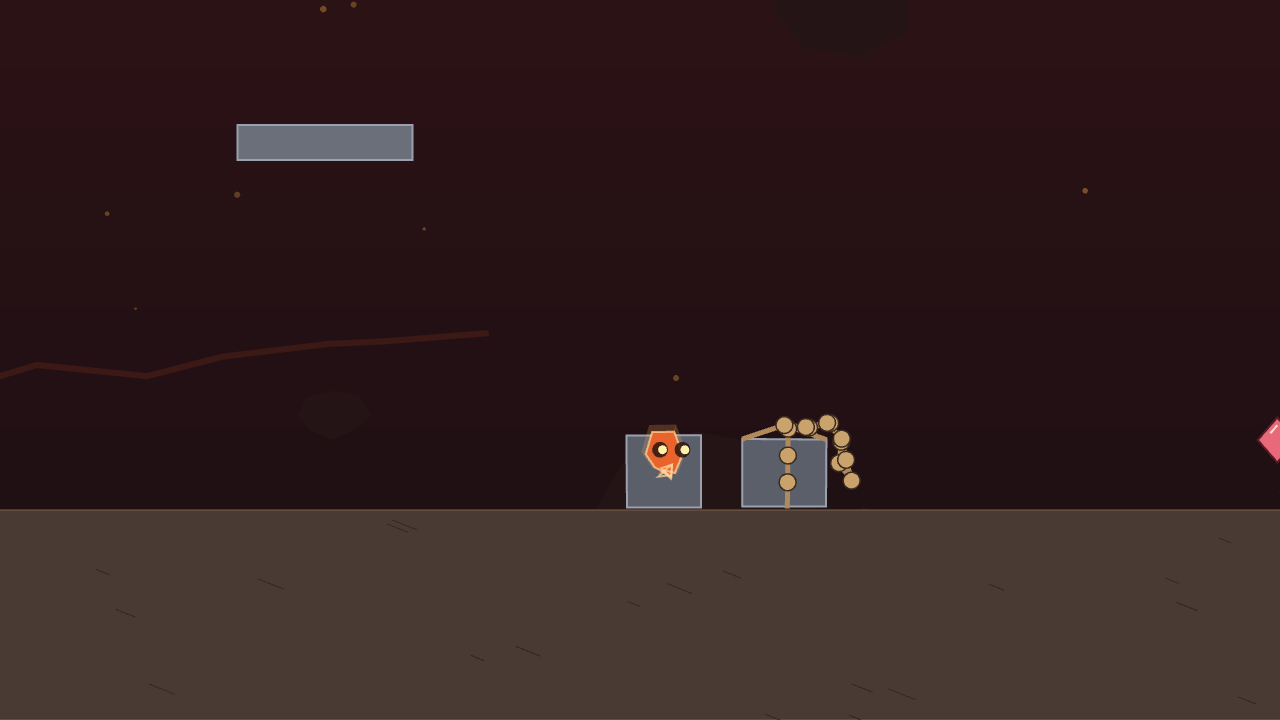
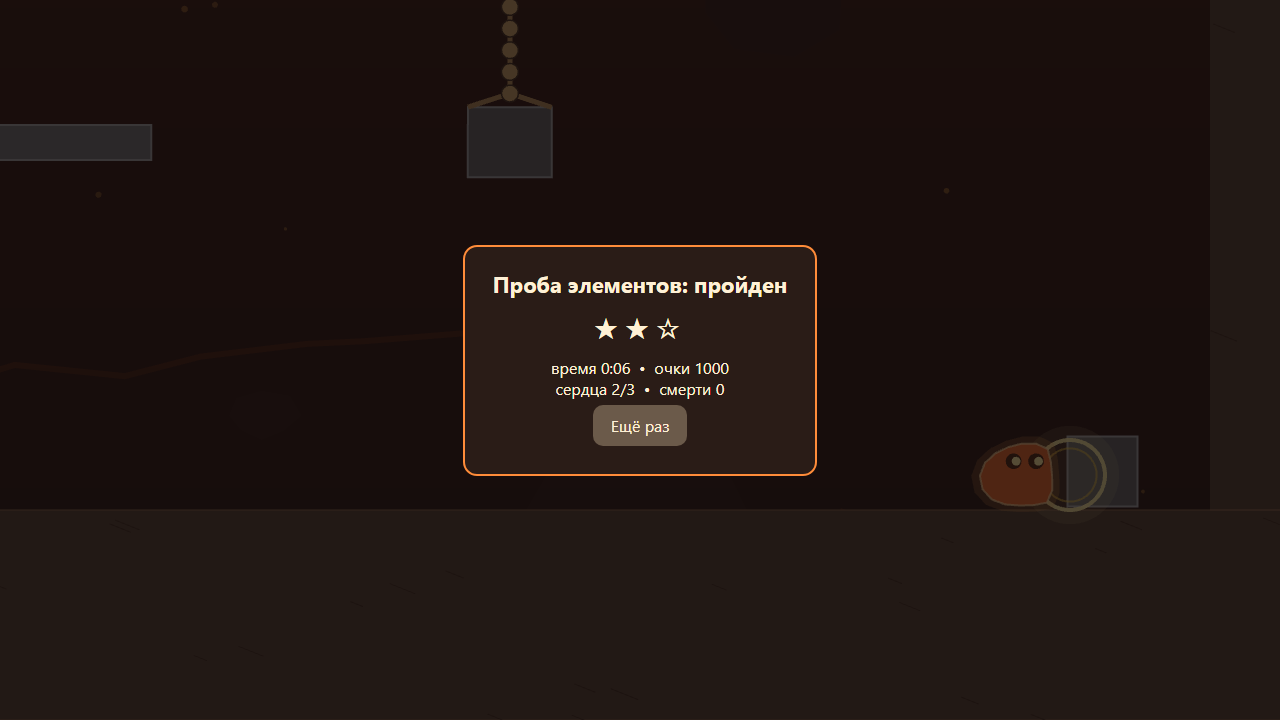
Физика: контакт тел наружу через пересечённое ребро, почти неупругий; якоря без накопления скорости; поршень пробы вровень с полом; тесты контейнеров

diff --git a/src/physics/mir.ts b/src/physics/mir.ts
@@ -11,6 +11,7 @@ export const SETKA = 2; // размер ячейки сетки отрезков
 export const MAX_YACHEEK = 65536;
 const ZAPAS = 0.6; // запас границ отрезка под глубину односторонней стороны
 const KASANIE = 0.003; // зазор, в пределах которого частица считается касающейся отрезка
+const NEUPRUGOST = 0.8; // доля разведения тел, которая не переходит в скорость
 const MAKS_RAZVEDENIE = 0.04; // предел разведения двух тел за подшаг
 const ZAPAS_TEL = 0.15; // запас вокруг прямоугольника контура при проверке близости тел
 const GLUBINA = 0.5; // глубина по умолчанию, с которой односторонний отрезок выталкивает сидящую внутри частицу
@@ -633,29 +634,54 @@ export class Mir {
             this.ottolknutOtRebra(p, otB, nB, x, y, r, b);
             continue;
           }
-          // внутри чужого контура: вытолкнуть через ближайшее ребро
+          // внутри чужого контура: вытолкнуть через ребро, которое частица пересекла за такт
+          // (по прошлой позиции), иначе через ближайшее. Ближайшее ребро у дна контейнера
+          // это его дно: частица героя вдавливалась в пол и тело складывалось (грабли, BRIEF)
           let luchshe = -1,
             dmin = Infinity;
-          for (let j = 0; j < nB; j++) {
-            const q1 = otB + j,
-              q2 = otB + ((j + 1) % nB);
-            const d = rasstoyanieDoOtrezka(
-              x,
-              y,
-              this.x[q1] as number,
-              this.y[q1] as number,
-              this.x[q2] as number,
-              this.y[q2] as number,
-            );
-            if (d < dmin) {
-              dmin = d;
-              luchshe = j;
+          const pxp = this.px[p] as number,
+            pyp = this.py[p] as number;
+          if (!this.vnutriKontura(otB, nB, pxp, pyp)) {
+            for (let j = 0; j < nB; j++) {
+              const q1 = otB + j,
+                q2 = otB + ((j + 1) % nB);
+              const ax = this.x[q1] as number,
+                ay = this.y[q1] as number;
+              const bx = this.x[q2] as number,
+                by = this.y[q2] as number;
+              // пересечение отрезка (px,py)-(x,y) с ребром (a,b)
+              const d1 = (bx - ax) * (pyp - ay) - (by - ay) * (pxp - ax);
+              const d2 = (bx - ax) * (y - ay) - (by - ay) * (x - ax);
+              const d3 = (x - pxp) * (ay - pyp) - (y - pyp) * (ax - pxp);
+              const d4 = (x - pxp) * (by - pyp) - (y - pyp) * (bx - pxp);
+              if (d1 * d2 < 0 && d3 * d4 < 0) {
+                luchshe = j;
+                dmin = rasstoyanieDoOtrezka(x, y, ax, ay, bx, by);
+                break;
+              }
             }
           }
+          if (luchshe === -1)
+            for (let j = 0; j < nB; j++) {
+              const q1 = otB + j,
+                q2 = otB + ((j + 1) % nB);
+              const d = rasstoyanieDoOtrezka(
+                x,
+                y,
+                this.x[q1] as number,
+                this.y[q1] as number,
+                this.x[q2] as number,
+                this.y[q2] as number,
+              );
+              if (d < dmin) {
+                dmin = d;
+                luchshe = j;
+              }
+            }
           if (luchshe === -1) continue;
           const q1 = otB + luchshe,
             q2 = otB + ((luchshe + 1) % nB);
-          this.razvesti(p, q1, q2, x, y, dmin + r, b);
+          this.razvesti(p, q1, q2, x, y, dmin + r, b, true);
         }
       }
     }
@@ -793,6 +819,7 @@ export class Mir {
     y: number,
     pen: number,
     b: number,
+    vnutri = false, // частица внутри чужого контура (наружу через ребро) или снаружи у ребра (от ребра)
   ): void {
     const x1 = this.x[q1] as number,
       y1 = this.y[q1] as number;
@@ -804,13 +831,16 @@ export class Mir {
     else if (t > 1) t = 1;
     const cx = x1 + ex * t,
       cy = y1 + ey * t;
-    let nx = x - cx,
-      ny = y - cy;
+    // частица внутри чужого контура: наружу значит от частицы к ребру и дальше. Раньше нормаль
+    // шла от ребра к частице, то есть внутрь: тело засасывало в контейнер, врага в героя (грабли)
+    let nx = vnutri ? cx - x : x - cx,
+      ny = vnutri ? cy - y : y - cy;
     const d = Math.sqrt(nx * nx + ny * ny);
     if (d < 1e-9) {
+      // частица на самом ребре: наружная нормаль контура, обход против часовой, наружу справа
       const l = Math.sqrt(el) || 1;
-      nx = -ey / l;
-      ny = ex / l;
+      nx = ey / l;
+      ny = -ex / l;
     } else {
       nx /= d;
       ny /= d;
@@ -831,6 +861,15 @@ export class Mir {
     this.y[q1] = (this.y[q1] as number) - ny * dq * (1 - t);
     this.x[q2] = (this.x[q2] as number) - nx * dq * t;
     this.y[q2] = (this.y[q2] as number) - ny * dq * t;
+    // контакт почти неупругий: большая часть разведения не становится скоростью, иначе
+    // лёгкий контейнер выстреливает от касания вдвое быстрее героя (грабли, BRIEF)
+    const k = NEUPRUGOST;
+    this.px[p] = (this.px[p] as number) + nx * dp * k;
+    this.py[p] = (this.py[p] as number) + ny * dp * k;
+    this.px[q1] = (this.px[q1] as number) - nx * dq * (1 - t) * k;
+    this.py[q1] = (this.py[q1] as number) - ny * dq * (1 - t) * k;
+    this.px[q2] = (this.px[q2] as number) - nx * dq * t * k;
+    this.py[q2] = (this.py[q2] as number) - ny * dq * t * k;
     this.kontaktTel[p] = 1;
     this.kontaktTelKontur[p] = b;
     this.kontaktTelChastica[p] = q1;

diff --git a/tests/konteynery.test.ts b/tests/konteynery.test.ts
@@ -91,24 +91,30 @@ describe('контейнеры', () => {
 
   it('тело толкает контейнер вправо', () => {
     const u = komnata([{ tip: 'yashchik', id: 'ya', x: 3, y: 0.1, w: 1, h: 1 }], [1, 1.2]);
-    const { mir, ur, telo } = progon(u, [{ takty: 300, nam: { dx: 1 } }]);
+    const { mir, ur, telo } = progon(u, [{ takty: 150, nam: { dx: 1 } }]);
     const s = ur.sushchnosti.find((q) => q.tip === 'yashchik') as Sushchnost;
-    const [cx] = centr(mir, s);
+    const [cx, cy] = centr(mir, s);
     expect(cx, `тело x ${telo.cx.toFixed(2)}`).toBeGreaterThan(4.5);
-    // тело не прошло сквозь контейнер: оно не правее его
-    expect(telo.cx).toBeLessThan(cx + 0.6);
+    // контейнер остался на полу целым, тело не внутри него
+    expect(cy).toBeLessThan(1.2);
+    let vnutri = 0;
+    for (let i = telo.ot; i < telo.ot + telo.n; i++)
+      if (mir.vnutriKontura(s.chasticy[0] as number, 4, mir.x[i] as number, mir.y[i] as number))
+        vnutri++;
+    expect(vnutri).toBe(0);
   });
 
   it('Вязкость тянет контейнер за собой', () => {
-    const u = komnata([{ tip: 'yashchik', id: 'ya', x: 3, y: 0.1, w: 1, h: 1 }], [1, 1.2]);
+    // контейнер вплотную справа от героя: коснуться, прилипнуть, ползти влево
+    const u = komnata([{ tip: 'yashchik', id: 'ya', x: 1.8, y: 0.1, w: 1, h: 1 }], [1.2, 1.2]);
     const { mir, ur } = progon(u, [
-      { takty: 120, nam: { dx: 1 } }, // подъехать
-      { takty: 60, nam: { dx: 1, vyazkost: true } }, // прилипнуть
-      { takty: 240, nam: { dx: -1, vyazkost: true } }, // тянуть влево
+      { takty: 40, nam: { dx: 1 } },
+      { takty: 30, nam: { vyazkost: true } },
+      { takty: 240, nam: { dx: -1, vyazkost: true } },
     ]);
     const s = ur.sushchnosti.find((q) => q.tip === 'yashchik') as Sushchnost;
     const [cx] = centr(mir, s);
-    expect(cx).toBeLessThan(3.3);
+    expect(cx).toBeLessThan(2.0);
   });
 
   it('маятник висит под якорем и качается после толчка', () => {

diff --git a/src/level/zagruzka.ts b/src/level/zagruzka.ts
@@ -229,7 +229,7 @@ export function zagruzitUroven(mir: Mir, u: Uroven): ZagruzhennyyUroven {
       s.kontur = mir.dobavitKontur(s.chasticy[0] as number, 4, KONTEYNER.obyom, 1);
       if (o.tip === 'mayatnik') {
         // якорь и цепь вниз, последнее звено держит оба верхних угла
-        const a = mir.dobavitTochku(o.x, o.y, CEP.massaYakorya, 0.02, 1, 1);
+        const a = mir.dobavitTochku(o.x, o.y, CEP.massaYakorya, 0.02, 1, 0);
         mir.gravMul[a] = 0;
         const raz = o.razryv ?? CEP.razryv[o.prochnost ?? 'prochnaya'];
         let prev = a;
@@ -256,7 +256,7 @@ export function zagruzitUroven(mir: Mir, u: Uroven): ZagruzhennyyUroven {
       const raz = o.razryv ?? CEP.razryv[o.prochnost ?? 'prochnaya'];
       const dvaYakorya = o.x2 !== undefined;
       // якорь A: неподвижная частица огромной массы
-      const a = mir.dobavitTochku(o.x, o.y, CEP.massaYakorya, 0.02, 1, 1);
+      const a = mir.dobavitTochku(o.x, o.y, CEP.massaYakorya, 0.02, 1, 0);
       mir.gravMul[a] = 0;
       let prev = a;
       // мост провисает по параболе: дуга длиннее прямой в zapas раз, звенья не сжаты и не растянуты
@@ -284,7 +284,7 @@ export function zagruzitUroven(mir: Mir, u: Uroven): ZagruzhennyyUroven {
         prev = q;
       }
       if (dvaYakorya) {
-        const b = mir.dobavitTochku(x2, y2, CEP.massaYakorya, 0.02, 1, 1);
+        const b = mir.dobavitTochku(x2, y2, CEP.massaYakorya, 0.02, 1, 0);
         mir.gravMul[b] = 0;
         const sv = mir.dobavitSvyaz(prev, b, CEP.zhestkost, 1);
         mir.sRazryv[sv] = raz;

diff --git a/src/level/urovni/proba-elementov.ts b/src/level/urovni/proba-elementov.ts
@@ -52,7 +52,7 @@ export const UROVEN_PROBA: Uroven = {
       tip: 'porshen',
       id: 'p1',
       x: 15,
-      y: 0.5,
+      y: 0, // вровень с полом: щель под поршнем зажимала контейнер и героя
       w: 2,
       h: 0.5,
       hodX: 0,
